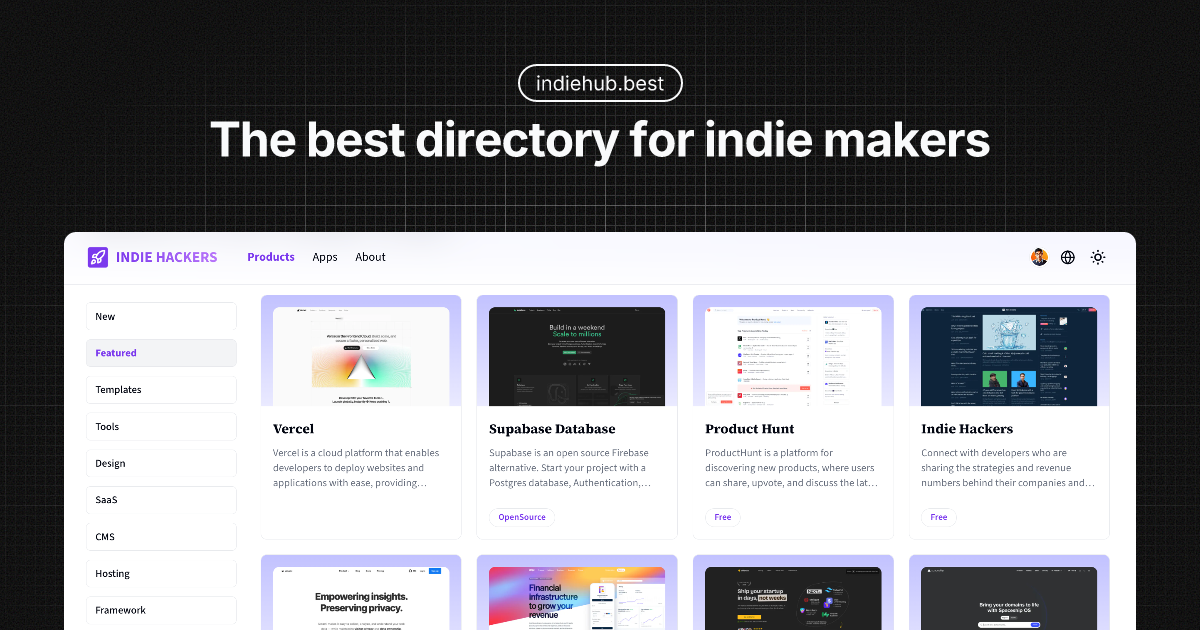
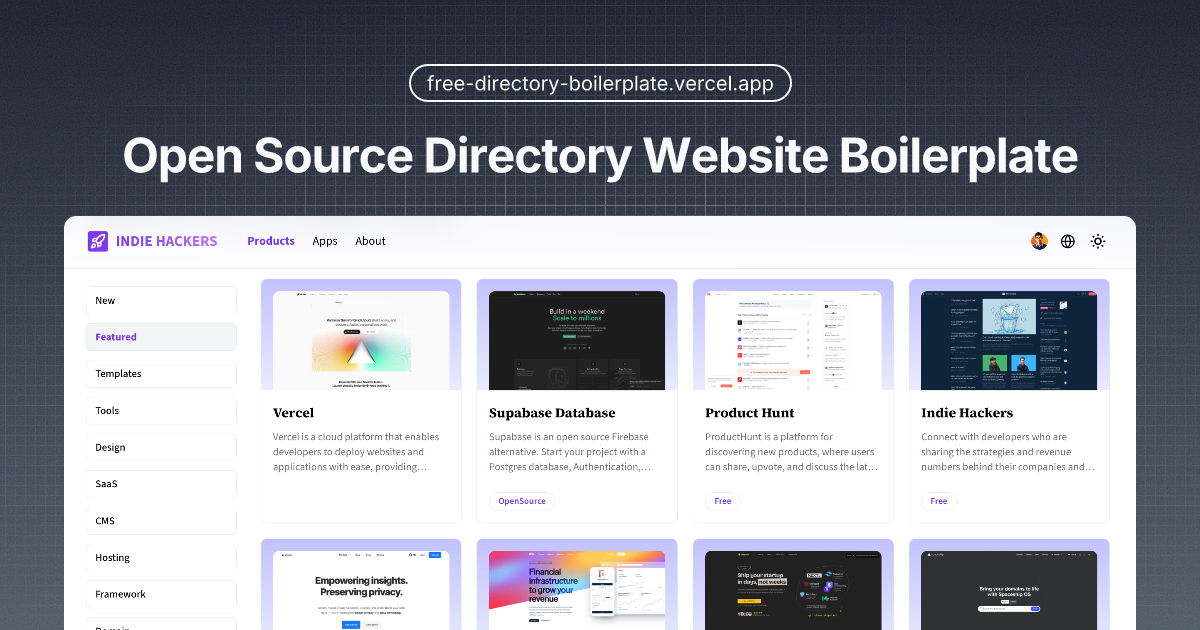
chore: update env file

diff --git a/README.md b/README.md
@@ -1,16 +1,58 @@
+<a href="https://free-directory-boilerplate.vercel.app">
+  <img alt="Free Directory Boilerplate" src="public/og.png">
+  <h1 align="center" style="margin-top: 20px;">Open Source Directory Boilerplate</h1>
+</a>
+
 # Website
 
-This project works as the main website for indie-hackers-site ([https://indie-hackers.site](https://indie-hackers.site)).
+Website (frontend, current repository): [https://free-directory-boilerplate.vercel.app](https://free-directory-boilerplate.vercel.app)
 
-Website: [https://free-directory-web.vercel.app](https://free-directory-web.vercel.app)
+Sanity Studio (backend): [https://free-directory-sanity.vercel.app/studio](https://free-directory-sanity.vercel.app/studio)
 
-Sanity Studio: [https://free-directory-sanity.vercel.app](https://free-directory-sanity.vercel.app)
+## Features
 
-If you have any questions when using this project, please checkout the [docs of Mkidrs boilerplate](https://docs.mkdirs.com) for more information, because they have almost the same tech stack.
+- Listings (Tools, Products)
+- Item Detail Page
+- Categories & Tags
+- Authentication (GitHub and Google)
+- Submission (built-in)
+- Sanity Studio (built-in CMS)
+- Blog (hidden by default)
+- Documentation (hidden by default)
+- Analytics (Umami & Google Analytics)
+- SEO (Sitemap, Open Graph)
+- Modern UI (Shadcn UI)
+- Responsive Design
+- Multi-language (English & Chinese)
+- Multi-theme (Light & Dark)
+
+
+## Tech Stack
+
+- Next.js 14
+- NextAuth
+- Database (PostgreSQL)
+- Tailwind CSS
+- Shadcn UI
+- Sanity
+- Vercel
+
+## How to use
+
+1. Clone the repository
+2. Run `pnpm install`
+3. Configure the `.env` file
+4. Run `pnpm dev`
 
 ## Mkdirs
 
-This project is the free version of [Mkdirs](https://mkdirs.com), the best directory boilerplate.
+This project is created by [Javayhu](https://x.com/javay_hu), the founder of [Mkdirs](https://mkdirs.com), which is the best directory boilerplate for anyone who wants to launch a profitable directory website in minutes.
+
+If you are interested in indie hacking, please follow me on X: [https://x.com/javay_hu](https://x.com/javay_hu)
+
+## Notices
+
+If you have any questions when using this project, please checkout the [docs of Mkidrs](https://docs.mkdirs.com) for more information, because they have almost the same tech stack.
 
 ## License
 
